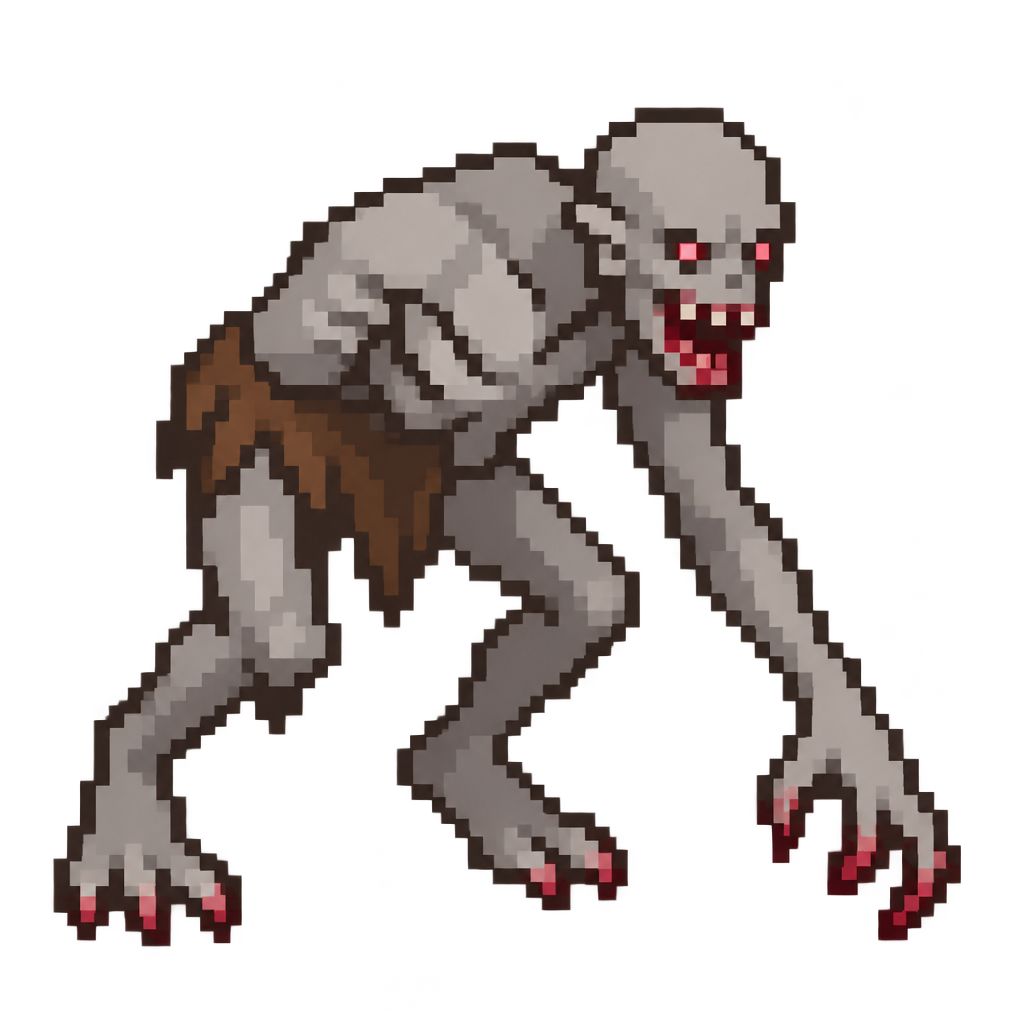
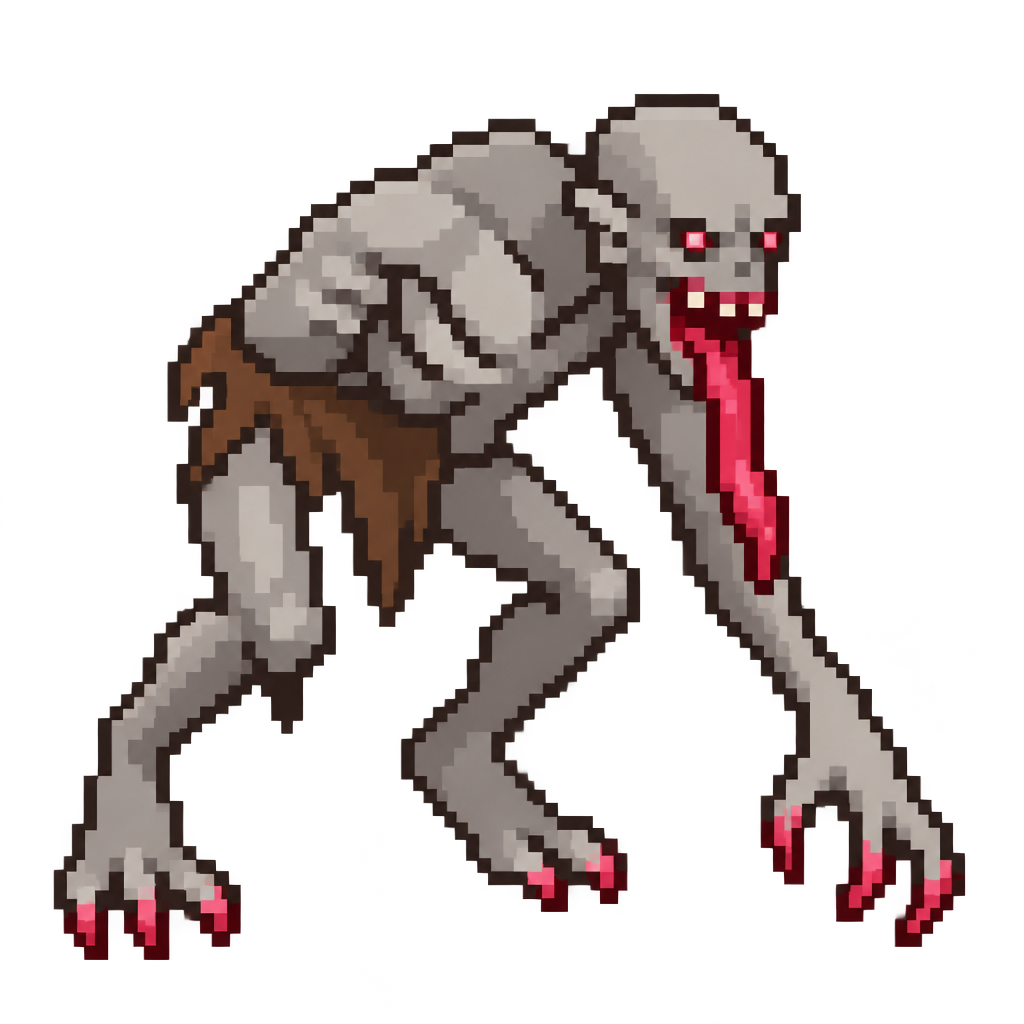
Act VII art redo round 1 (figures): Vargr wolf head, Blood Knight gold trim, Ghoul tongue, Nosferatu black coat, Dhampir and Huntress Deathlord skins, new Elder first form
Claude-Session: https://claude.ai/code/session_01TjA5CNwUWb95gMazj5Z3qp

Changed region(s): [[0.0625, 0.0938, 0.9688, 0.9375], [0.5312, 0.6562, 0.5625, 0.6875]]

diff --git a/tools/walk_cycle.py b/tools/walk_cycle.py
@@ -623,12 +623,12 @@ RIGS = {
     "court/vampire_bat": dict(mode="hover", bob=2, parts=[
         dict(kind="flap", box=(0, 12, 0, 22), root=12, amp=3),
         dict(kind="flap", box=(20, 32, 0, 22), root=20, amp=3)]),
-    "court/blood_knight": dict(mode="legs", hip=36, back=(0, 16), front=(16, 24), rigid=[(24, 32, 0, None)], spread=2, lift=2, dip=1),
+    "court/blood_knight": dict(mode="legs", hip=36, back=(0, 16), front=(16, 24), rigid=[(26, 34, 0, None)], spread=2, lift=2, dip=1),  # Round 1 redo (act 7): the gold-trimmed still is 34 wide (halberd cols 26+, was 24+ of 32).
     "court/werewolf": dict(mode="legs", hip=36, back=(0, 27), front=(27, 48), rigid=[], spread=2, lift=2, dip=1),
     "court/werewolf_beast": dict(mode="legs", hip=60, back=(0, 36), front=(36, 66), rigid=[], spread=3, lift=3, dip=1),
     "court/vampire_noble": dict(mode="robe", hip=34, rigid=[], sway=1, dip=1, bust=(9, 24, 11, 18, 2, 2), swish=(8, 25, 26, 36, 2)),
     # --- Act VII: Ravensmoor ---
-    "court/ghoul": dict(mode="legs", hip=18, back=(0, 17), front=(17, 34), rigid=[], spread=1, lift=1, dip=1),
+    "court/ghoul": dict(mode="legs", hip=18, back=(0, 16), front=(16, 32), rigid=[], spread=1, lift=1, dip=1),
     "court/old_greymane": dict(mode="legs", hip=64, back=(0, 43), front=(43, 86), rigid=[], spread=3, lift=3, dip=1),
     "bosses/vargr": dict(mode="legs", hip=82, back=(0, 63), front=(63, 126), rigid=[], spread=3, lift=3, dip=1),
     "player/moon_huntress": dict(mode="robe", hip=30, rigid=[(31, 42, 0, None)], sway=1, dip=1, bust=(19, 27, 12, 18, 2)),
@@ -649,9 +649,11 @@ RIGS = {
     "court/chiropteran_king": dict(mode="robe", hip=60, rigid=[], sway=1, dip=1),
     "bosses/carmilla": dict(mode="robe", hip=38, rigid=[], sway=1, dip=1, bust=(26, 39, 14, 21, 2, 2), swish=(22, 42, 26, 36, 2)),
     "bosses/elder": dict(mode="legs", hip=80, back=(0, 61), front=(61, 122), rigid=[], spread=3, lift=3, dip=1),
+    # The Elder's first form (round 1 redo, act 7): a long robe to the floor, so he glides like the other robed figures.
+    "bosses/elder_vampire": dict(mode="robe", hip=84, rigid=[], sway=1, dip=1),
     "player/dhampir": dict(mode="legs", hip=34, back=(0, 23), front=(23, 46), rigid=[], spread=2, lift=2, dip=1),
     "summons/blood_spawn": dict(mode="legs", hip=26, back=(0, 25), front=(25, 50), rigid=[], spread=2, lift=2, dip=1),
-    "summons/nosferatu": dict(mode="legs", hip=34, back=(0, 27), front=(27, 54), rigid=[], spread=2, lift=2, dip=1),
+    "summons/nosferatu": dict(mode="legs", hip=34, back=(0, 26), front=(26, 52), rigid=[], spread=2, lift=2, dip=1),
 }
 
 # Skins (SkinData, cosmetic): skin sprite key -> its character's sprite key. A skin keeps
@@ -765,6 +767,9 @@ SKINS = {
 }
 # Per-skin field overrides of the derived rig (same keys as RIGS), set after review.
 SKIN_FIX = {
+    # --- Act VII round 1 redo: the regenerated Deathlord skins are 44 wide (the bases 42 / 46), so their own splits and box ---
+    "player/dhampir_deathlord": {"back": (0, 22), "front": (22, 44)},
+    "player/moon_huntress_deathlord": {"bust": (17, 27, 15, 21, 2)},
     # --- Act VI: the Palace of Silk and Ash --- (the Succubus Queen's Deathlord skin is 58 tall: its own boxes)
     "player/succubus_queen_deathlord": {"hip": 33, "bust": (12, 28, 14, 20, 2, 2), "swish": (11, 29, 24, 34, 2)},
     # --- Act VI: Pandemonium --- (the Fallen Saint's Hyper skin: its own box)

diff --git a/art_source/castle_sanguis/make_art.py b/art_source/castle_sanguis/make_art.py
@@ -37,9 +37,10 @@ UNITS = {
     "player/dhampir": ("art_source/player/dhampir.png", ["--ramps", "velvet,blood,moonlight,soul,skin", "--ink-l", "0.15", "--no-levels"]),
     "player/dhampir_hyper": ("art_source/player/dhampir_hyper.png", ["--ramps", "gold,marble,velvet,skin,moonlight", "--ink-l", "0.15", "--no-levels"]),
     "player/dhampir_untouchable": ("art_source/player/dhampir_untouchable.png", ["--ramps", "marble,soul,grey,skin", "--ink-l", "0.15"]),
-    "player/dhampir_deathlord": ("art_source/player/dhampir_deathlord.png", ["--ramps", "grey,crimson,skin,moonlight", "--ink-l", "0.15", "--no-levels"]),
+    "player/dhampir_deathlord": ("art_source/player/dhampir_deathlord.png", ["--ramps", "velvet,grey,crimson,skin,moonlight", "--ink-l", "0.15", "--no-levels"]),  # Round 1 redo (act 7): velvet keeps the coat black.
+    "bosses/elder_vampire": ("art_source/bosses/elder_vampire.png", ["--ramps", "moonlight,blood,velvet,bone,gold,skin", "--ink-l", "0.15", "--no-levels"]),  # The Elder's first form (round 1 redo, act 7); his bat-winged bosses/elder is the second.
     "summons/blood_spawn": ("art_source/summons/blood_spawn.png", ["--ramps", "grey,bone,soul,blood", "--ink-l", "0.15"]),
-    "summons/nosferatu": ("art_source/summons/nosferatu.png", ["--ramps", "grey,bone,soul,blood", "--ink-l", "0.15"]),
+    "summons/nosferatu": ("art_source/summons/nosferatu.png", ["--ramps", "velvet,grey,bone,soul,blood", "--ink-l", "0.15", "--no-levels"]),  # Round 1 redo (act 7): a black coat.
     "structures/blood_fountain": ("art_source/structures/blood_fountain.png", ["--ramps", "grey,blood,gold", "--ink-l", "0.15"]),
     "structures/elder_coffin": ("art_source/structures/elder_coffin.png", ["--ramps", "velvet,blood,moonlight,bone,gold", "--ink-l", "0.15", "--no-levels"]),
     "structures/elder_coffin_open": ("art_source/structures/elder_coffin_open.png", ["--ramps", "velvet,blood,moonlight,bone,gold", "--ink-l", "0.15", "--no-levels"]),

diff --git a/art_source/ravensmoor/make_art.py b/art_source/ravensmoor/make_art.py
@@ -38,7 +38,7 @@ FIGURES = {
     "player/moon_huntress": ("raw/moon_huntress.png", 56, ["--ramps", "moonlight,velvet,skin,brown,blood"]),  # No gold: her pale face snapped to it; the levels stretch lifts her dark coat (art_check lightness).
     "player/moon_huntress_hyper": ("raw/moon_huntress_hyper.png", 56, ["--ramps", "gold,marble,skin,brown,moonlight", "--no-levels"]),
     "player/moon_huntress_untouchable": ("raw/moon_huntress_untouchable.png", 56, ["--ramps", "marble,soul,grey,skin"]),
-    "player/moon_huntress_deathlord": ("raw/moon_huntress_deathlord.png", 56, ["--ramps", "grey,crimson,skin,moonlight", "--no-levels"]),
+    "player/moon_huntress_deathlord": ("raw/moon_huntress_deathlord.png", 56, ["--ramps", "velvet,grey,crimson,skin,moonlight", "--no-levels"]),  # Round 1 redo (act 7): velvet keeps the coat black against the silver hair.
 }
 # Icon sheets: file -> (badge frame, symbol ids left to right; "" = skip).
 ICONS = {

diff --git a/docs/GDD.md b/docs/GDD.md
@@ -1967,3 +1967,4 @@ Decisions made since the source was written are recorded in 15.0; everything bel
 | Act VII playtest pass 2 | Bot playtest pass 2 (the Witchwood only, the same builds and seeds as pass 1, after "Ease the Witchwood": Bloated Thrall damage 6 -> 4.5, blood pool heal 0.03 -> 0.021 per s): deaths before 0:00 6 -> 5 of 15, mean lowest HP 75 -> 87, boss slain 9 -> 10, zero errors, `stuck_units=0`. All the newspells runs still die at ~8:00 (7:56-8:39) under the second Blood Moon (werewolves and Blood Knights, before any evolution), and the same holds on all three Act VII stages. **Owner: "Keep it, move on"**: no further change; Act VII waits for the owner's own playtest. Report `docs/act7/playtest/pass2.md`. |
 | — | Act VI art review, round 1 (rigs) | Owner's marks, brief `docs/act6/ART_REDO_R1.md` Group A, rig work only (`tools/walk_cycle.py`; no new images). **Bust boxes** (cols, art px): Fallen Angel 13-24 -> 17-28; Lilim Witch 5-19 -> 7-19; Succubus 12-26 -> 13-26; Twin Agrat 15-31 -> 17-31; Twin Naamah 16-32 -> 18-32; Fallen Saint 13-25 -> 17-29 (the Untouchable skin derives it); Fallen Saint Hyper its own box 16-28 (13-25 + 3, `SKIN_FIX`); Bound Succubus cols 15-29 / rows 12-18 -> 17-31 / 14-20; Lilim Matriarch cols 19-35 / rows 15-21 -> 21-37 / 17-23. The Fallen Saint Deathlord derives the base's new box; its strips wait for the figures branch that regenerates it. **Cleavers fixed:** `hold` rig key keeps the Archfiend's and the Prince of Hell's cleaver (and the hand) fixed to the body in the walk; legs, tail and wings still move. **Swinging chains and censer:** `pendulums` rig key (a masked part turned about its top point on game time): the Gatekeeper's two chains (7 degrees), the Morning Star's Beast's gold chains (4 degrees), the Furnace Priest's censer and his three skins' (10 degrees). **Succubus Queen Untouchable:** idle and walk rebuilt from the approved still and are bit-identical to the committed strips (frame 0 = the still), so left unchanged. Every other strip rebuilt (walk and idle). Notes in ART_BIBLE "Pendulums and held props". |
 | Act VI art review, round 1 (figures and the throne) | Owner marks (Group B of `docs/act6/ART_REDO_R1.md`), art only, no gameplay change | Regenerated from their old sources as references (`GEN_LEDGER` rows; prompts beside the sources): **Lilith** and her **demon form** (the most exaggerated hourglass in the game: a much bigger bust, hips and thighs, a plunging neckline filled by a gold panel and gem, still fully covered; bust and swish boxes re-fitted, `bosses/lilith` rig), the **Hell Knight** (greatsword raised over the shoulder, ready to swing; the walk keeps it), the **Lava Hound** (a large, defined head: bull-skull face, jaw with fangs, eyes, horns; body unchanged), the **Fallen Seraph General** (a clear, noble face, greatsword raised ready to swing; wings and armour kept), **Agrat** (finished like her sister Naamah; bust box re-fitted to the new chest), the Fallen Saint's **Deathlord skin** (same figure, face and pose as the base, only the black-iron and crimson scheme and a crimson skull-and-crown emblem) and the Succubus Queen's **Hyper skin** (feathered angel wings in dark burnt feathers with gold tips replace the bat wings; the `obsidian` ramp added to its conversion so the dark feathers stay dark). Strips rebuilt for every key. The **Pandemonium throne floor** gets four thin lava-filled cracks (`art_source/pandemonium/throne_cracks.py`, a seeded wrapping random walk drawn after `make_tile.py build`, so it stays seamless; dim tones so units read). |
+| — | Act VII art review, round 1 (figures) | Owner's marks, group B (`docs/act7/ART_REDO_R1.md`), regenerated from the old source as the reference, strips rebuilt, rigs refit: **Vargr** (a true wolf's head: long muzzle, heavy jaw, upright pointed ears; body, cloak, collar, crown kept); **Blood Knight** (bold gold trim on the helm, pauldrons, breastplate edges, cuffs and halberd guard, from the concept); **Ghoul** (a very long lolling tongue); **Nosferatu** (a black coat, more defined face; ramps `velvet,grey,bone,soul,blood` with `--no-levels`); the **Dhampir and Moon Huntress Deathlord skins** (a clear face for him; for her a jet-black coat against white-silver hair, ears and tail with crimson trim, ramps with `velvet` so black stays black; her own idle bust box cols 17-27, rows 15-21, his strips split at 22); and a NEW sprite **`bosses/elder_vampire`** (+ `_walk`, 90x120, robe glide), the Elder's first form: a tall regal male vampire lord, pale, black velvet robe with blood-red lining and a high collar, gold clasp; registered in `SpriteData` at height 120 like `bosses/elder`. The bat-winged `bosses/elder` stays as his second form; a code agent wires the two forms in `boss_carmilla.gd`. |

diff --git a/docs/art/ART_BIBLE.md b/docs/art/ART_BIBLE.md
@@ -2816,3 +2816,8 @@ foundation weak spot, for the art review).
 - Lilith's neckline is a plunging V filled by a gold panel and gem; the chest and hips stay covered.
 - The Hyper Succubus Queen converts with `obsidian` in the ramps (without it the dark feathers snap to brown).
 - `art_source/pandemonium/throne_cracks.py` draws the Throne's lava cracks after the tile build (not idempotent: always run it right after `make_tile.py build pandemonium_throne`).
+
+### Act VII art review, round 1 (Group B: figures)
+- Redone from the old source as the reference with "ONLY ONE figure" in the prompt; prompts updated in `art_source/ravensmoor/*.txt`, `art_source/court/blood_knight.txt`, `art_source/castle_sanguis/{nosferatu,dhampir_deathlord}.txt`.
+- Black coats (Nosferatu, both Deathlord skins) need the `velvet` ramp first and `--no-levels`; with `grey` alone they snap to mid grey.
+- `bosses/elder_vampire` (90x120, `art_source/castle_sanguis/elder_vampire.txt`) is the Elder's first form; `bosses/elder` is the second. Its walk is the robe glide (hip 84).
